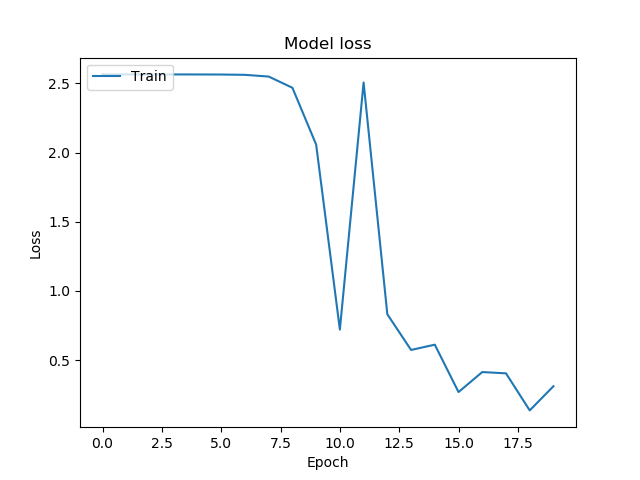
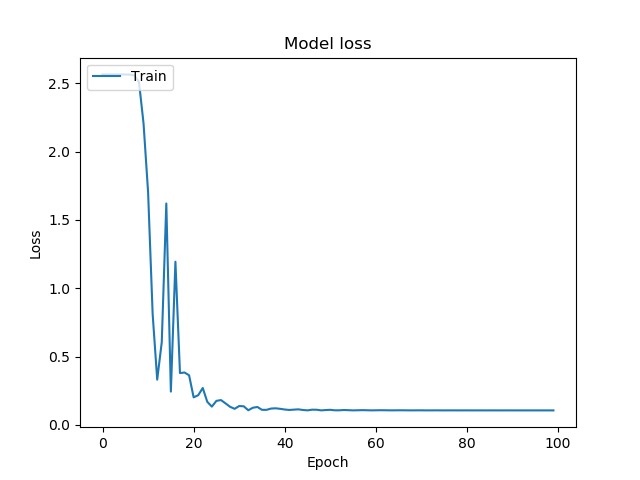
model trained but need improvemets

diff --git a/deepgenesis/manage.py b/deepgenesis/manage.py
@@ -16,9 +16,9 @@ print('tensorflow version {}'.format(tf.__version__))
 ds = DataSet()
 xception =  Xception()
 
-xception.plot_model()
+# xception.plot_model()
 # train = Train()
-# train.train(lr=1e-3,epochs=20)
+# train.train(lr=1e-3,epochs=100)
 
-# test = Test()
-# test.test()
+test = Test()
+test.test()
